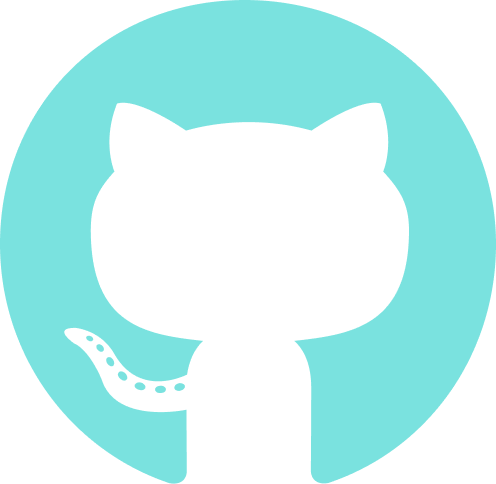
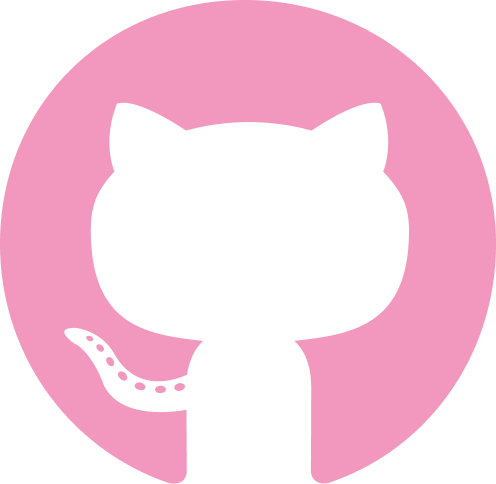
second version for landing

diff --git a/style.css b/style.css
@@ -39,17 +39,18 @@ img {
 
 :root {
   --blanco: white;
+  --negro: #000;
   --gris-medio: #333333;
   --gris-oscuro: #2c2c2c;
-  --main-font: "Oswald", sans-serif;
-  --secondary-font: "Open Sans", sans-serif;
+  --main-font: "Comfortaa", cursive;
+  --secondary-font: "Roboto", sans-serif;
   --shadow: rgba(0, 0, 0, 0.75);
-  --celeste: #7ae2df;
+  --rosado: #f297bd;
 }
 
 body, header, section {
   align-items: center;
-  background-color: var(--gris-medio);
+  background-color: var(--blanco);
   display: flex;
   flex-direction: column;
   width: 100%;
@@ -65,7 +66,7 @@ section {
 
 .skip-link:focus,
 .skip-link:active {
-  background: var(--celeste);
+  background: var(--rosado);
   border-radius: 5px;
   color: var(--gris-oscuro);
   font-family: var(--secondary-font);
@@ -74,26 +75,41 @@ section {
   padding: 8px;
   text-decoration: none;
   border: 5px solid var(--gris-oscuro);
-  outline: 3px solid var(--celeste);
+  outline: 3px solid var(--rosado);
+  position: absolute;
 }
 
 .header {
-  color: var(--blanco);
+  color: var(--negro);
   font-family: var(--main-font);
-  font-size: 55px;
+  font-size: 2.8rem;
+  line-height: 1.5;
   margin-top: 16px;
 }
 
+header {
+  background-image: url(./images/main-background.png);
+  background-repeat: no-repeat;
+  background-size: contain;
+}
+
+.presentation-container {
+  display: flex;
+  align-items: center;
+  justify-content: space-between;
+  width: 46%;
+  margin-bottom: 60px;
+}
+
 .subtitle {
-  color: var(--celeste);
+  color: var(--negro);
   font-family: var(--secondary-font);
   font-size: 24px;
 }
 
 .header-img {
   border-radius: 50%;
-  border: 1px solid var(--gris-oscuro);
-  box-shadow: 8px 16px 32px 0px var(--shadow);
+  box-shadow: 0px 8px 6px 0px rgb(108 108 108 / 75%);
   height: 360px;
   margin-top: 80px;
   width: 360px;
@@ -114,14 +130,14 @@ nav {
 
 .nav-item a {
   text-decoration: none;
-  color: var(--blanco);
+  color: var(--negro);
 }
 
 .nav-item {
   align-items: center;
   border-radius: 5px;
   display: flex;
-  font-family: var(--secondary-font);
+  font-family: var(--main-font);
   height: 38px;
   justify-content: center;
   width: 33%;
@@ -129,13 +145,13 @@ nav {
 
 .nav-item:hover,
 .nav-item:hover a {
-  background-color: var(--celeste);
+  background-color: var(--rosado);
   color: var(--gris-oscuro);
   cursor: pointer;
 }
 
 .nav-item:focus-within {
-  background-color: var(--celeste); 
+  background-color: var(--rosado); 
 }
 
 .nav-item a:focus {
@@ -146,7 +162,7 @@ nav {
 .intro {
   margin: 10px 0 auto;
   font-family: var(--secondary-font);
-  color: var(--blanco);
+  color: var(--negro);
   width: 46%;
   text-align: center;
 }
@@ -161,7 +177,7 @@ nav {
 .social-media li a {
   align-items: center;
   display: flex;
-  color: var(--blanco);
+  color: var(--negro);
   font-family: var(--secondary-font);
   text-decoration: none;
 }
@@ -171,7 +187,7 @@ nav {
 }
 
 .social-media li:focus-within {
-  outline: 3px solid var(--celeste);
+  outline: 3px solid var(--rosado);
   padding: 8px;
 }
 
@@ -214,12 +230,12 @@ nav {
 }
 
 .project-container button:focus-within {
-  outline: 3px solid var(--celeste);
+  outline: 3px solid var(--rosado);
 }
 
 .project-img {
   border-radius: 5px;
-  border: 2px solid #000;
+  box-shadow: 0px 4px 8px 2px rgb(108 108 108 / 75%);
   display: inline-block;
   height: 400px;
   margin: 0 8px;
@@ -237,6 +253,7 @@ nav {
   height: 75px;
   transition: all 0.2s ease-in-out;
   width: 75px;
+  border: none;
 }
 
 .arrow:hover {
@@ -245,26 +262,14 @@ nav {
 
 .arrow-left {
   background: center / contain no-repeat url(./images/play-button-left.png);
-  background-color: var(--celeste);
-  border-radius: 50%;
 }
 
 .arrow-right {
   background: center / contain no-repeat url(./images/play-button-right.png);
-  background-color: var(--celeste);
-  border-radius: 50%;
 }
 
 .arrow:focus {
-  outline: 3px solid var(--celeste);
-}
-
-.contact-section {
-  align-items: center;
-  background-color: var(--gris-oscuro);
-  display: flex;
-  flex-direction: column;
-  width: 100%;
+  outline: 3px solid var(--rosado);
 }
 
 .form-container {
@@ -275,7 +280,7 @@ nav {
 
 .form-label,
 .message-input {
-  color: var(--celeste);
+  color: var(--rosado);
   font-family: var(--secondary-font);
 }
 
@@ -289,14 +294,14 @@ input {
 }
 
 input:focus {
-  outline: 3px solid var(--celeste);
+  outline: 3px solid var(--rosado);
   padding: 8px;
 }
 
 .send-button,
 .modal-button {
   align-items: center;
-  background-color: var(--celeste);
+  background-color: var(--rosado);
   border-radius: 5px;
   color: var(--gris-oscuro);
   font-family: var(--secondary-font);
@@ -313,7 +318,7 @@ input:focus {
 .send-button:focus,
 .modal-button:focus {
   border: 5px solid var(--gris-oscuro);
-  outline: 3px solid var(--celeste);
+  outline: 3px solid var(--rosado);
 }
 
 #name-error {
@@ -323,7 +328,7 @@ input:focus {
 
 .notification {
   align-items: center;
-  background-color: var(--celeste);
+  background-color: var(--rosado);
   border-radius: 5px;
   box-shadow: 8px 16px 32px 0px var(--shadow);
   color: var(--gris-oscuro);
@@ -348,7 +353,7 @@ input:focus {
 }
 
 #modal-header {
-  outline: 3px solid var(--celeste);
+  outline: 3px solid var(--rosado);
 }
 
 .modal {
@@ -375,7 +380,8 @@ input:focus {
   width: 550px;
 }
 
-/* Por ahora ocultare el form */
 footer {
-  display: none !important;
+  text-align: center;
+  font-family: var(--main-font);
+  margin-bottom: 20px;
 }

diff --git a/index.html b/index.html
@@ -5,18 +5,21 @@
     <meta content="width=device-width, initial-scale=1" name="viewport" />
     <title>t-girl</title>
     <link href="style.css" rel="stylesheet" />
-    <link
-      href="https://fonts.googleapis.com/css?family=Open+Sans|Oswald&display=swap"
-      rel="stylesheet"
-    />
+    <link rel="preconnect" href="https://fonts.googleapis.com">
+    <link rel="preconnect" href="https://fonts.gstatic.com" crossorigin>
+    <link href="https://fonts.googleapis.com/css2?family=Comfortaa:wght@600&family=Roboto:wght@300&display=swap" rel="stylesheet">
   </head>
 
   <body>
     <a href="#main" class="skip-link">Saltar al contenido</a>
     <header>
-      <img src="images/t-girl.png" alt="Verónica Barrientos" class="header-img" />
-      <h1 class="header">Verónica Barrientos</h1>
-      <h2 class="subtitle">Front-end Developer</h2>
+      <div class="presentation-container">
+        <img src="images/t-girl.png" alt="Verónica Barrientos" class="header-img" />
+        <div>
+          <h1 class="header">Verónica Barrientos</h1>
+          <h2 class="subtitle">Front-end Developer</h2>
+        </div>
+      </div>
       <nav>
         <ul class="navigation">
           <li class="nav-item"><a href="#main">Acerca de</a></li>
@@ -30,11 +33,10 @@
       <section>
         <h2 class="header">Acerca de</h2>
         <p class="intro">
-        Hola! Soy Verónica 👋 Soy costarricense, amo ver series y tambien crear
-        cosas lindas para la web 😍 estudio Ingeniería en Software. Tengo experiencia previa en el desarrollo de proyectos centrados en el diseño y 
-        desarrollo web. También participo en redes de liderazgo que ayudan a fortalecer mis habilidades blandas. Aquí puedes encontrar algunos de mis proyectos en GitHub,
-        seguirme en mis redes sociales, y también puedes contactarme por si
-        quieres hablar de tecnología, accesibilidad o series!</p>
+          Hola! Soy Vero, y amo crear cosas lindas para la web, estudio Ingeniería del Software. 
+          Tengo experiencia en el desarrollo de proyectos centrados en el diseño, 
+          desarrollo web, y desarrollo front-end. 
+          También participo en redes de liderazgo que ayudan a fortalecer mis habilidades blandas. </p>
       </section>
 
       <section id="contact">
@@ -86,27 +88,9 @@
     </section>
     </main>
 
-    <footer class="contact-section">
-      <h2 class="header">Contacto</h2>
-      <p class="intro">Para manderme un mensaje puedes usar el formulario que sigue</p>
-      <form class="form-container">
-        <label class="form-label">Nombre</label><input type="text" aria-label="nombre" id="name"/> 
-        <span id="name-error" aria-live="assertive"></span>
-        <br />
-        <label class="form-label">Correo</label><input type="text" aria-label="correo"/> <br />
-        <label class="message-input">Mensaje<input type="text" /> <br /></label>
-        <button class="send-button">Enviar</button>
-      </form>
+    <footer>
+      <small>Made with love and coffe</small>
     </footer>
-
-    <!-- <div class="notification" aria-live="assertive"></div>
-    <div class="modal-container">
-      <div class="modal">
-        <h2 class="header" id="modal-header" tabindex="0">Grace Hopper Celebration</h2>
-        <img src="images/ghc-in.jpg" class="modal-project-image" alt="un pantallazo de mi project"/>
-        <button class="modal-button">Cerrar</button>
-      </div>
-    </div> -->
 
     <script src="index.js" type="text/javascript"></script>
   </body>
